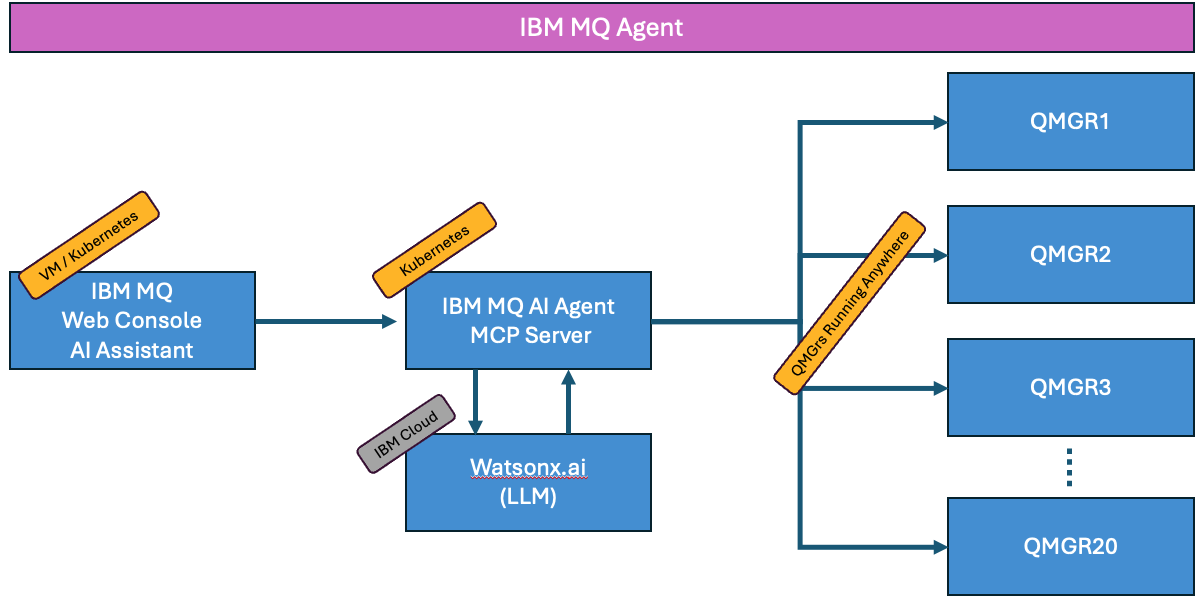
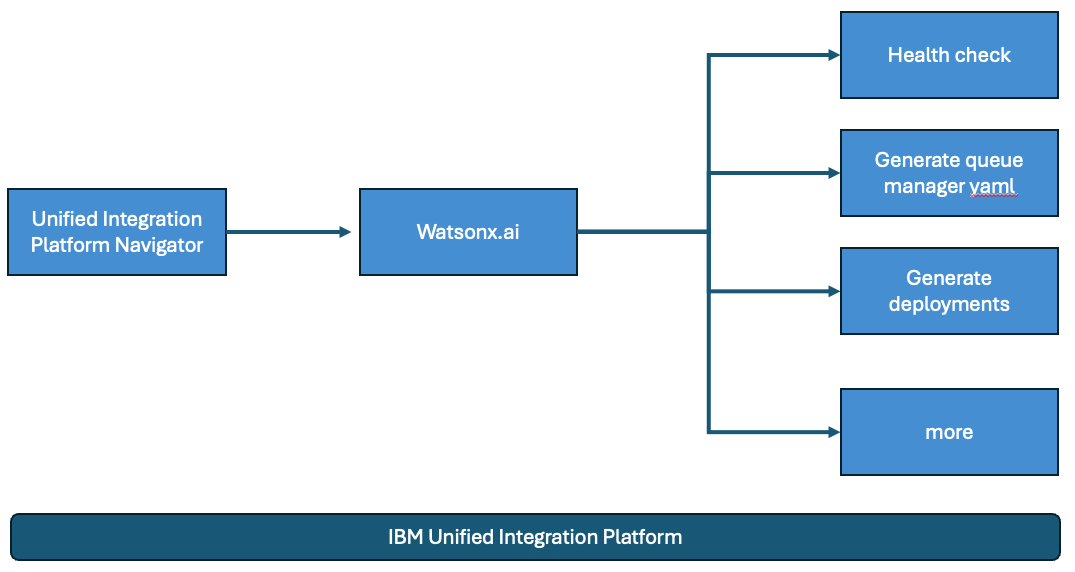
initial version

diff --git a/ai-agents/unified-platform-ai-agent/ReadMe.md b/ai-agents/unified-platform-ai-agent/ReadMe.md
@@ -5,7 +5,7 @@
 # Table of Contents
 
 - [1. Overview](#overview)
-- [2. Accessing IBM MQ WebConsole ](#webconsole)
+- [2. IBM Unified Integration Platform Navigator](#int-platform)
 - [3. Sample prompts](#prompts)
 - [4. Summary ](#summary)
 
@@ -13,94 +13,77 @@
 
 ## 1. Overview <a name="overview"></a>
 
-In this lab, you will explore IBM MQ AI Agent capabilities. 
+In this lab, you will explore IBM Integration Platform AI Agent Capabilities. <br>
 
-**What is MQ AI Agent?** 
-The IBM MQ Agent is an AI-powered conversational assistant designed to help administrators explore configurations, monitor object status, and troubleshoot messaging issues across IBM MQ networks using natural language. <br>
+**What is IBM Integration Platform AI Agent?** 
+IBM Integration AI Agent is a conversational, AI-powered feature in the Platform UI that helps administrators diagnose, monitor, and troubleshoot hybrid integration environments using natural language queries. <br>
 
-**Key Capabilities and Features** <br>
-- Natural-Language Diagnostics: 
-Translates plain-English questions into insights about queue states, channel health, and message backlogs.
-- Read-Only Safety: Designed with strict read-only access to query and reason about queue manager states without running modifying commands (like MQSC).
-- Model Context Protocol (MCP): Uses an MCP server backend to host diagnostic tools that fetch live structural and runtime data from up to twenty connected queue managers.
-- Containerized Architecture: Runs on Kubernetes environments such as Red Hat OpenShift or Amazon EKS, integrated via the IBM MQ Console.
-- Flexible Inferencing: Supports foundational models via IBM watsonx.ai as well as vLLM-based local or managed endpoints
+**Core Components & Specialized Agents** <br>
+The system uses a unified Supervisor Agent that coordinates multiple specialized background agents:. <br>
+
+- **Knowledge Agent**
+Queries official documentation, product guides, and support content to provide personalized guidance.
+- **Log Agent** <br>
+Scans and analyzes component logs for warnings and errors.
+- **Topology Agent**
+Maps out how software instances relate to Kubernetes objects and resources.
+- **Instance Agent**
+Checks and reports on the operational health and status of deployed instances and containers.
+- **Versions and Updates Agent**
+Proactively checks component currency and available software fixes.
+
+**Key Benefits** <br>
+- **Faster Troubleshooting**
+Cuts down time spent manually searching raw log files and complex documentation.
+- **Lower Barrier to Entry**
+Helps teams manage Kubernetes and integration topologies without requiring deep specialist expertise.
+- **Maintains Human Control**
+Acts as a guided assistant while leaving administrators fully responsible for final decisions and execution
 
 <br>
 
-**High Level MQ AI Agent Topology** <br>
+**High Level Integration AI Agent Topology** <br>
 ![alt text](./images/topology.png)
 
 <br>
 
 
-## 2. Accessing IBM MQ WebConsole <a name="webconsole"></a>
+## 2. IBM Unified Integration Platform Navigator <a name="int-platform"></a>
 
-Login to IBM Cloud Pak for Integration's Platform Navigator using the URL Provided. <br>
+Login to IBM Cloud Pak for Integration's Platform Navigator using the URL Provided, and click on the **AI** icon on the top right of the screen. <br>
 
-Filter the capabilities by searching for **cp4i-mq** then click on **mqwebconsole** to open IBM MQ WebConsole. <br>
+![alt text](image.png)
 
-![alt text](./images/image.png)
+Accept the Disclaimer if you see one. <br>
 
-Click on **Open chat window**, the IBM MQ AI Assistent icon. <br>
-![alt text](./images/image-1.png)
+![alt text](image-1.png)
 
-A chat window will appear as below. <br>
-![alt text](./images/image-2.png)
+A chat window should be opened. <br>
+![alt text](image-4.png)
+
+<br><br>
 
 ## 3. Sample prompts <a name="prompts"></a>
 
 Run some sample prompts: <br>
 
-1. What can you help with?
-![alt text](./images/image-3.png)
-  Response: <br>
-  ![alt text](./images/image-4.png)
+1. Click on **"Health check my Cloud Pak for installation**. 
+![alt text](image-2.png)
 
-2. What queue managers can you see?
-![alt text](./images/image-5.png)
+You should see details about the installation, and recommendations as you can see below that a newer Operator is available. <br>
+![alt text](image-3.png)
 
-3. Any issues with queue manager mqdv03?
-![alt text](./images/image-6.png)
+2. What can you help me with?
 
-4. Are messages building up in FLIGHT.LANDINGS Queue on Queue Manager mqdv03?
-![alt text](./images/image-7.png)
+![alt text](image-5.png)
 
-5. Is there a problem with dead letter queue on mqdv03 <br>
-** **Note:** Answer will be bit vague, if DLQ is not defined.
-
-6. Do any queues have producers?
-
-7. how do i define a local queue?
-
-8. What are the versions the queue managers?
-
-9. is there any message build up in queue manager mqdv03?
-
-10.	What is the problem with APPQ on mqdv03?
-
-11.	Diagnose APPQ on mqdv03
-
-12. What is the name of dead letter queue for mqdv03? 
-
-13. When was the last message received from amqsphac on APPQ1?
-
-14. what applications are connected to cp4i-mq-mq01ha queue manager?
-
-15. What queues are currently active?
-
-16. Show APPQ current depth?
-
-17. What applications are writing messages to APPQ?
-
-18. Is APPQ under mqdv03 queue manager full?
-
-Channels: <br>
-19. Are any channels in Retrying state on mqdv03 queue manager?
-
-20. What applications are connecting to channel SB.SVRCONN on mqdv03 queue manager?
-
+3. Create yaml to create nativeha queue manager?
+![alt text](image-6.png)
 <br>
+
+4. Similarly, run additional prompts
+<br>
+
 
 ## 4. Summary <a name="summary"></a>
 
